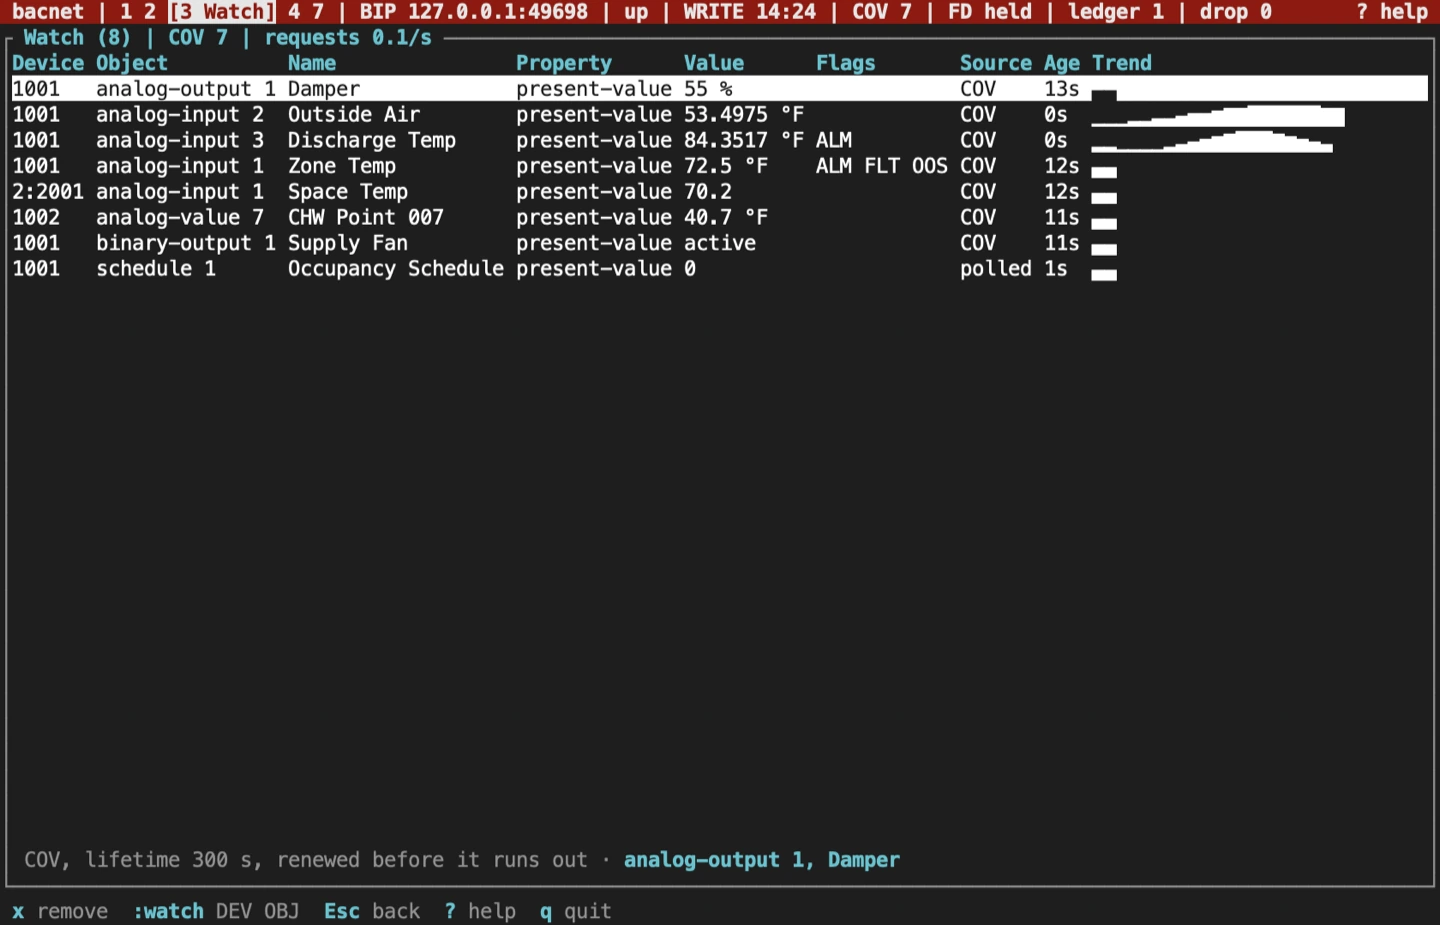
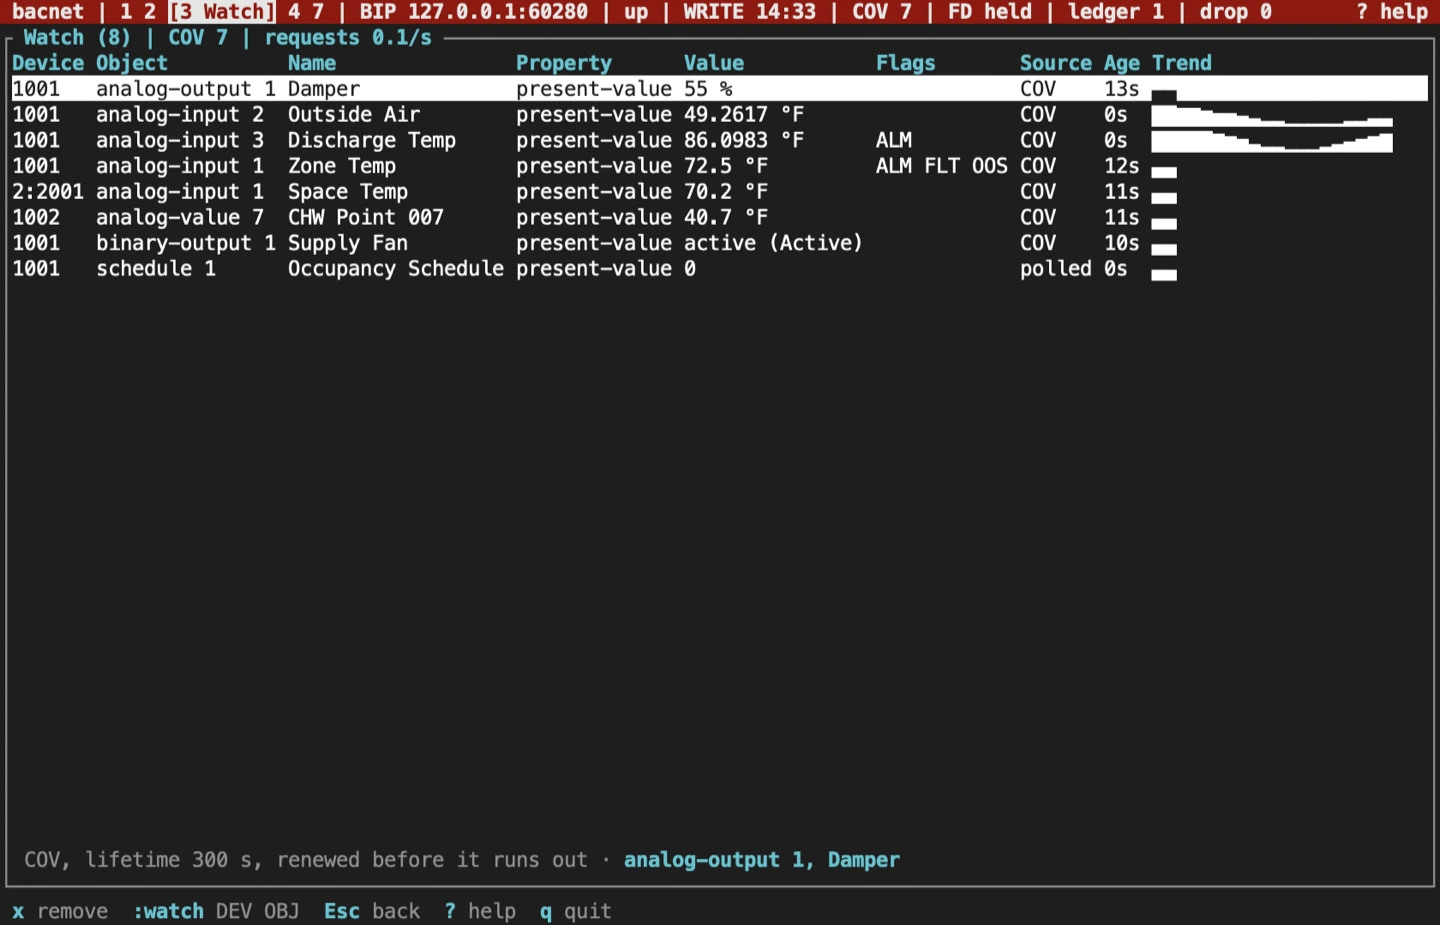
docs(website): retake watch-list with every row's units (#2167)
The watch-list shot is taken again from the fixed build, so every row shows
its units or state text. The bip scenario's BDT and FDT waits now take only
a fresh read (a one-digit age), since "read \d+s ago" also matched the old
read before `r` landed.

diff --git a/website/scripts/tui-screenshots/capture.py b/website/scripts/tui-screenshots/capture.py
@@ -845,12 +845,13 @@ def bip(s, p, lab):
     p.send("4")
     # Read the tables again: the read from connecting is a minute old by now,
     # and the FDT ages its rows from it, so the lab's 60 s foreign device
-    # would show 0 s left and "expiring".
+    # would show 0 s left and "expiring". The waits take only a fresh read:
+    # "read \d+s ago" would also match the old one before `r` lands.
     p.wait(r"\[BDT\]")
     p.send("r")
-    p.shot("network-fd-bdt", wait=r"\[BDT\].*read \d+s ago")
+    p.shot("network-fd-bdt", wait=r"\[BDT\].*read [0-9]s ago")
     p.send("Tab")
-    p.shot("network-fdt", wait=r"\[FDT\].*read \d+s ago")
+    p.shot("network-fdt", wait=r"\[FDT\].*read [0-9]s ago")
     p.send("Tab", "m")
     p.shot("network-matrix", wait=r"BDTs agree|MISS")
     p.send("Tab", "r")
